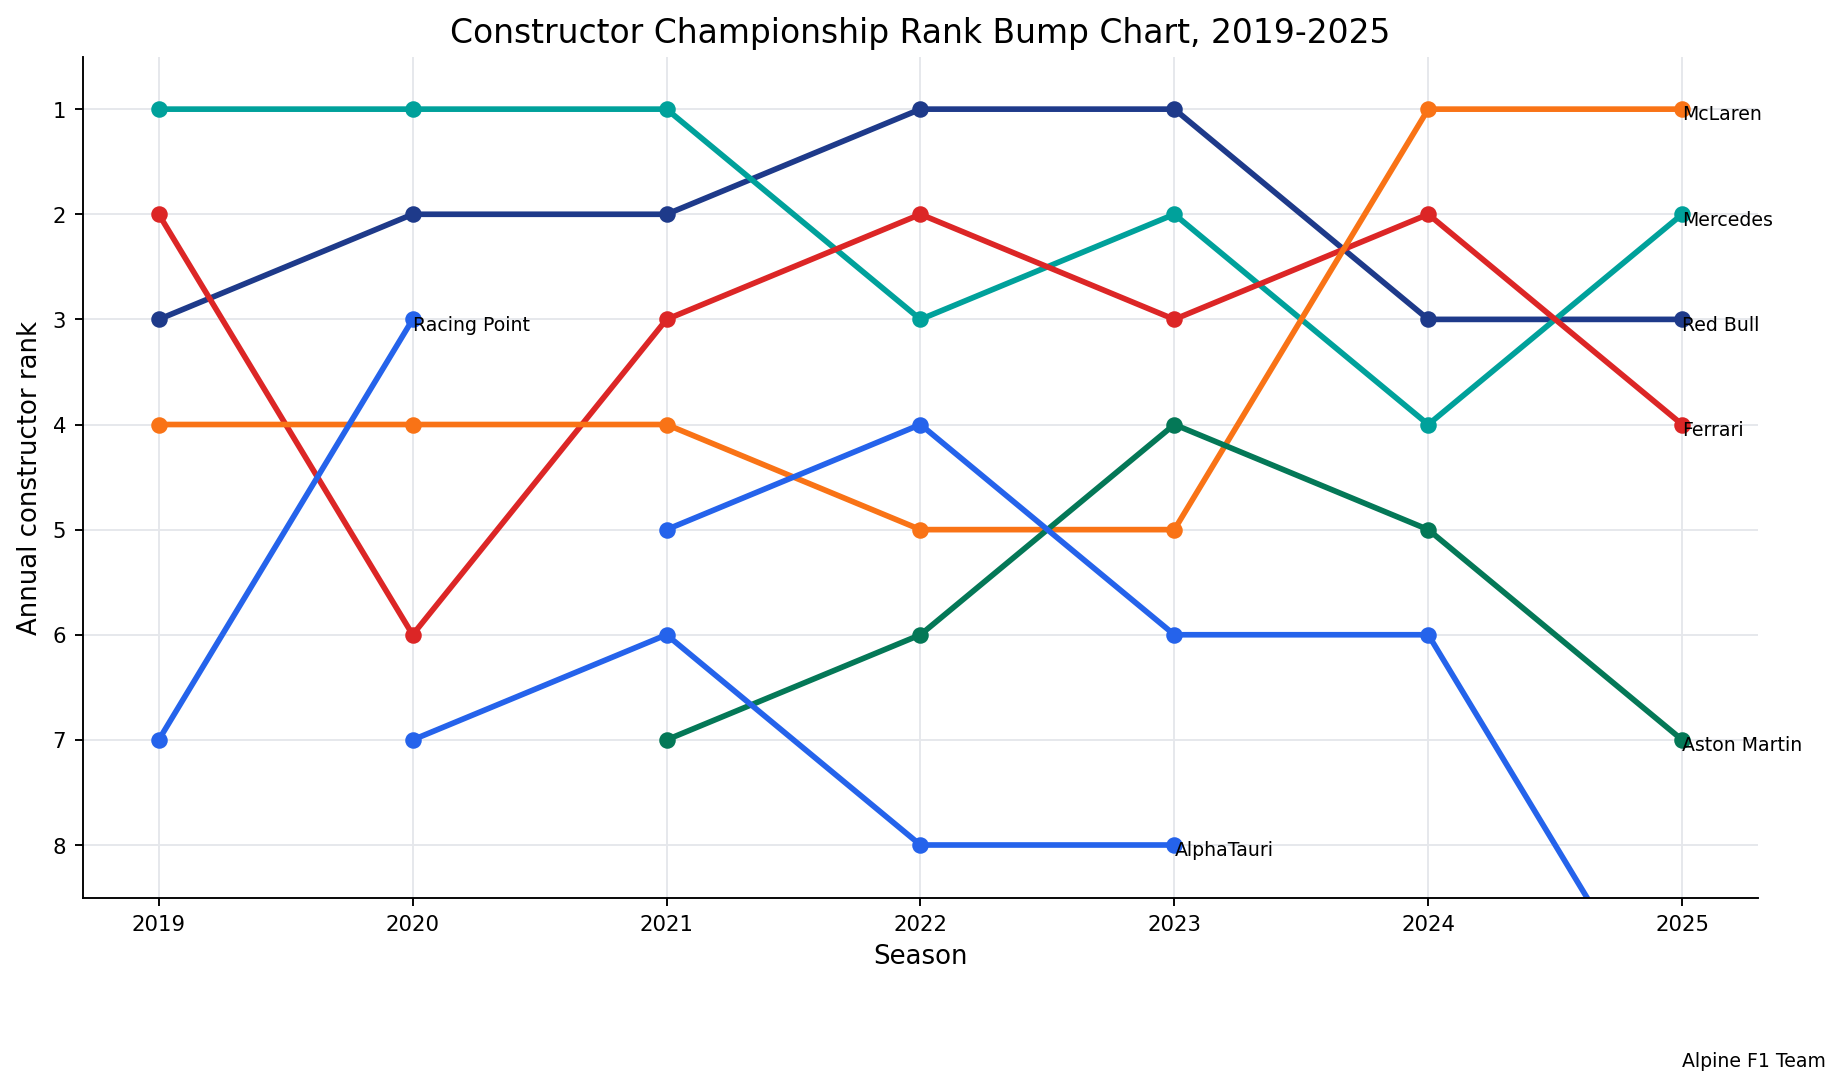
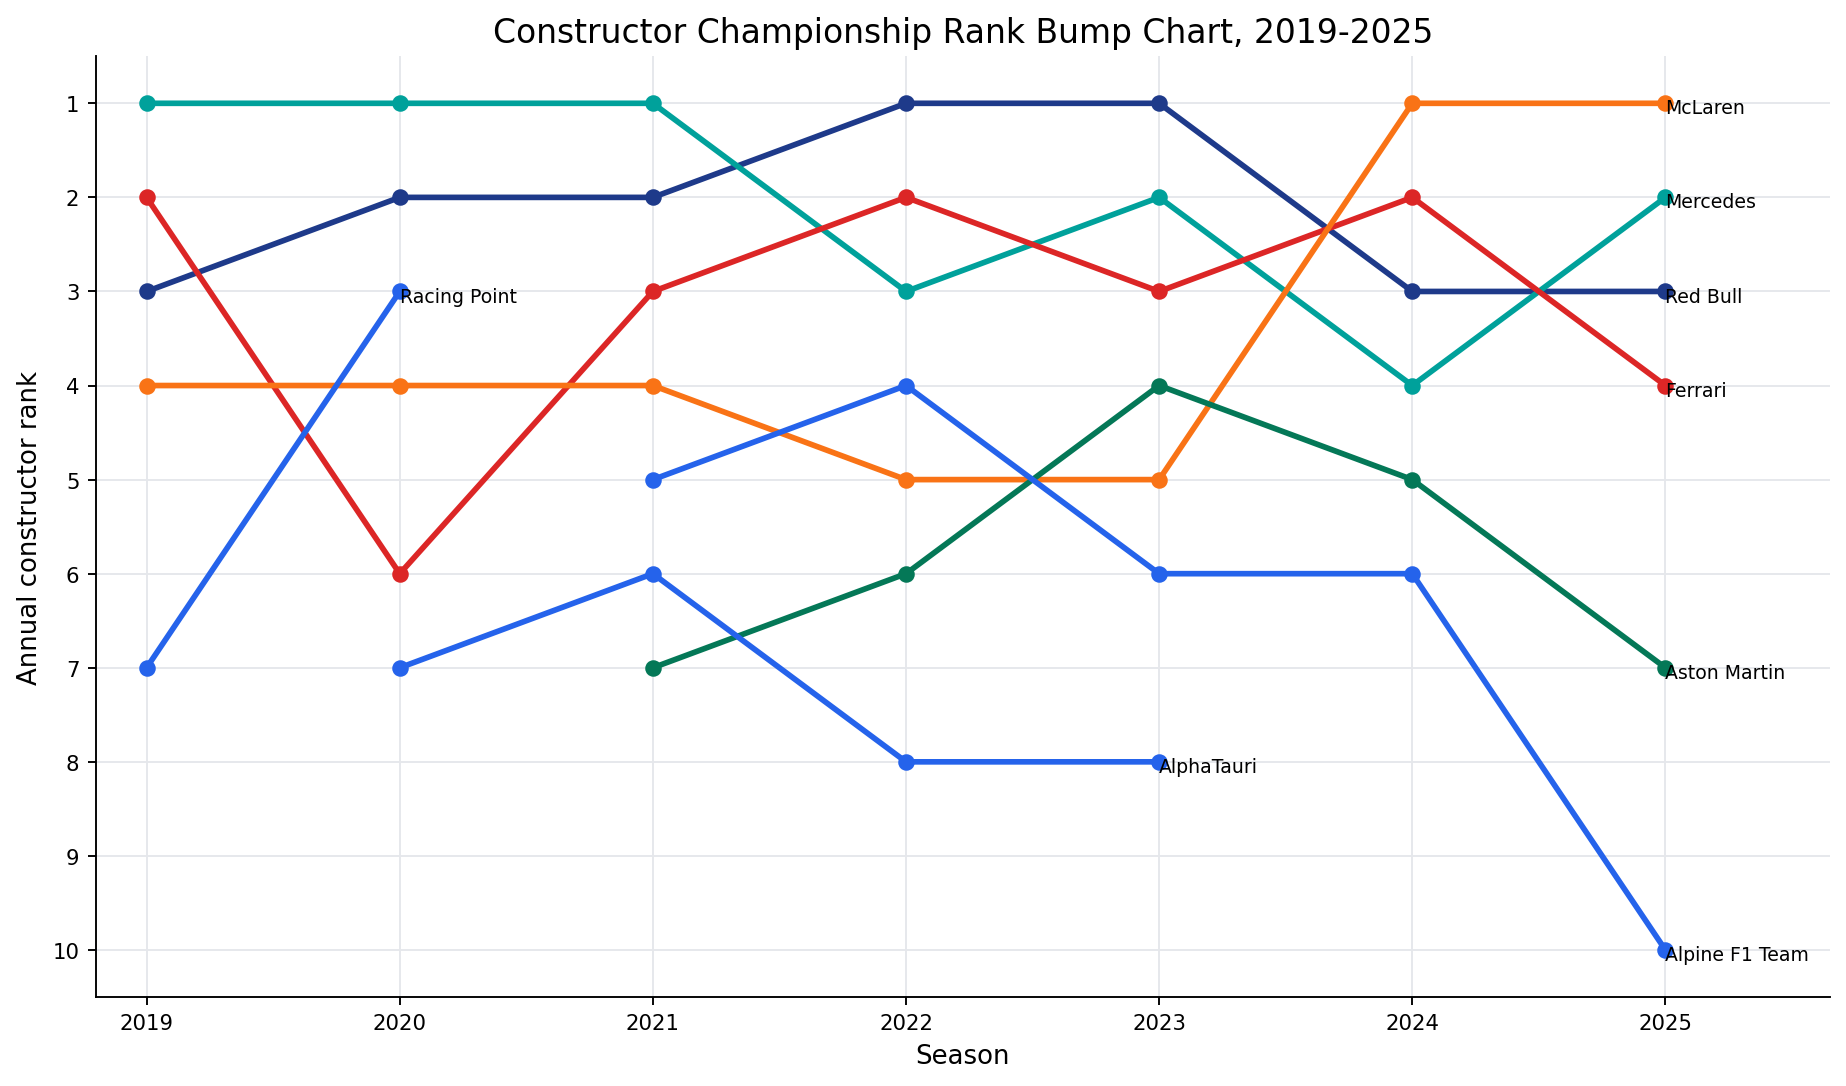
Fix visualization output consistency

diff --git a/simulate_f1_season_uncertainty.py b/simulate_f1_season_uncertainty.py
@@ -162,6 +162,16 @@ SIMULATION_SUMMARY_FIELDS = [
     "deterministic_champion",
 ]
 
+MODEL_TASK_SUMMARY_FIELDS = [
+    "task",
+    "target",
+    "best_model",
+    "best_feature_mode",
+    "key_metric",
+    "value",
+    "source_file",
+]
+
 
 def read_csv(path):
     """Read a CSV file into a list of dictionaries."""
@@ -724,6 +734,52 @@ def build_simulation_summary_rows(driver_rows, constructor_rows, best_strategy):
     return rows
 
 
+def update_model_task_summary(best_strategy_row):
+    """Update the compact task summary with the best points post-processing strategy."""
+    summary_path = MODEL_DIR / "model_task_summary.csv"
+    if not summary_path.exists():
+        return
+
+    rows = read_csv(summary_path)
+    existing_points_model = "catboost_regressor"
+    for row in rows:
+        if row.get("task") == "points" and row.get("best_model"):
+            existing_points_model = row["best_model"].split(" + ")[0]
+
+    updated_rows = []
+    points_row_written = False
+    for row in rows:
+        if row.get("task") == "points":
+            updated_rows.append(
+                {
+                    "task": "points",
+                    "target": "current_rule_points",
+                    "best_model": f"{existing_points_model} + {best_strategy_row['strategy']}",
+                    "best_feature_mode": "post_qualifying",
+                    "key_metric": "strategy_rule_mapped_MAE",
+                    "value": best_strategy_row["mae"],
+                    "source_file": "rule_mapped_strategy_metrics_2025.csv",
+                }
+            )
+            points_row_written = True
+        else:
+            updated_rows.append(row)
+
+    if not points_row_written:
+        updated_rows.append(
+            {
+                "task": "points",
+                "target": "current_rule_points",
+                "best_model": f"{existing_points_model} + {best_strategy_row['strategy']}",
+                "best_feature_mode": "post_qualifying",
+                "key_metric": "strategy_rule_mapped_MAE",
+                "value": best_strategy_row["mae"],
+                "source_file": "rule_mapped_strategy_metrics_2025.csv",
+            }
+        )
+    write_csv(summary_path, MODEL_TASK_SUMMARY_FIELDS, updated_rows)
+
+
 def save_strategy_comparison_chart(metric_rows):
     """Save a bar chart comparing rule-mapped ranking strategies."""
     labels = [row["strategy"].replace("_", "\n") for row in metric_rows]
@@ -860,6 +916,7 @@ def main():
     strategy_prediction_rows = build_strategy_prediction_rows(rows)
     strategy_metric_rows = calculate_strategy_metrics(strategy_prediction_rows)
     best_strategy = strategy_metric_rows[0]["strategy"]
+    update_model_task_summary(strategy_metric_rows[0])
     driver_simulation_rows, constructor_simulation_rows = simulate_season(
         rows, strategy_prediction_rows, best_strategy
     )
@@ -947,6 +1004,7 @@ def main():
             "season_simulation_driver_standings_2025.csv",
             "season_simulation_constructor_standings_2025.csv",
             "season_simulation_summary_2025.csv",
+            "model_task_summary.csv",
         ],
         "figures": [
             str(strategy_chart.relative_to(BASE_DIR)),

diff --git a/visualize_f1_analysis.py b/visualize_f1_analysis.py
@@ -74,12 +74,27 @@ def write_json(path, data):
 
 
 def clear_old_figures():
-    """Build or render the clear old figures project output."""
+    """Remove only EDA figures managed by this script.
+
+    Model figures are generated by separate scripts and share the same output
+    directory, so this cleanup must not delete every PNG in `outputs/figures`.
+    """
     FIGURE_DIR.mkdir(parents=True, exist_ok=True)
-    for path in FIGURE_DIR.glob("*.png"):
-        if path.name.startswith("podium_model_"):
+    if not MANIFEST_JSON.exists():
+        return
+
+    try:
+        manifest = json.loads(MANIFEST_JSON.read_text(encoding="utf-8"))
+    except json.JSONDecodeError:
+        return
+
+    for figure in manifest.get("figures", []):
+        filename = figure.get("filename")
+        if not filename:
             continue
-        path.unlink()
+        path = FIGURE_DIR / filename
+        if path.exists() and path.suffix.lower() == ".png":
+            path.unlink()
 
 
 def to_float(value, default=0.0):
@@ -1235,11 +1250,11 @@ def plot_constructor_rank_bump_chart(manifest):
         totals[constructor_id] = totals.get(constructor_id, 0.0) + to_float(row["total_points"])
         names[constructor_id] = row["constructor_name"]
     selected_ids = sorted(totals, key=totals.get, reverse=True)[:8]
-    years = sorted({row["season"] for row in rows})
+    years = sorted({to_int(row["season"]) for row in rows})
 
     ranks_by_year = {}
     for year in years:
-        year_rows = [row for row in rows if row["season"] == year]
+        year_rows = [row for row in rows if to_int(row["season"]) == year]
         year_rows = sorted(year_rows, key=lambda row: to_float(row["total_points"]), reverse=True)
         ranks_by_year[year] = {
             row["constructor_id"]: index
@@ -1248,12 +1263,14 @@ def plot_constructor_rank_bump_chart(manifest):
 
     fig, ax = setup_figure(11, 6.5)
     ax.grid(True, axis="x", color="#E5E7EB", linewidth=0.8)
+    all_valid_ranks = []
     for constructor_id in selected_ids:
         name = names[constructor_id]
         ranks = [ranks_by_year[year].get(constructor_id) for year in years]
         valid_points = [(year, rank) for year, rank in zip(years, ranks) if rank is not None]
         if not valid_points:
             continue
+        all_valid_ranks.extend(rank for _, rank in valid_points)
         ax.plot(
             years,
             ranks,
@@ -1268,8 +1285,10 @@ def plot_constructor_rank_bump_chart(manifest):
     ax.set_title("Constructor Championship Rank Bump Chart, 2019-2025")
     ax.set_xlabel("Season")
     ax.set_ylabel("Annual constructor rank")
-    ax.set_ylim(8.5, 0.5)
-    ax.set_yticks(range(1, 9))
+    max_rank = max(all_valid_ranks) if all_valid_ranks else 8
+    ax.set_ylim(max_rank + 0.5, 0.5)
+    ax.set_yticks(range(1, max_rank + 1))
+    ax.set_xlim(min(years) - 0.2, max(years) + 0.65)
 
     filename = "constructor_rank_bump_chart_2019_2025.png"
     save_current_figure(filename)
